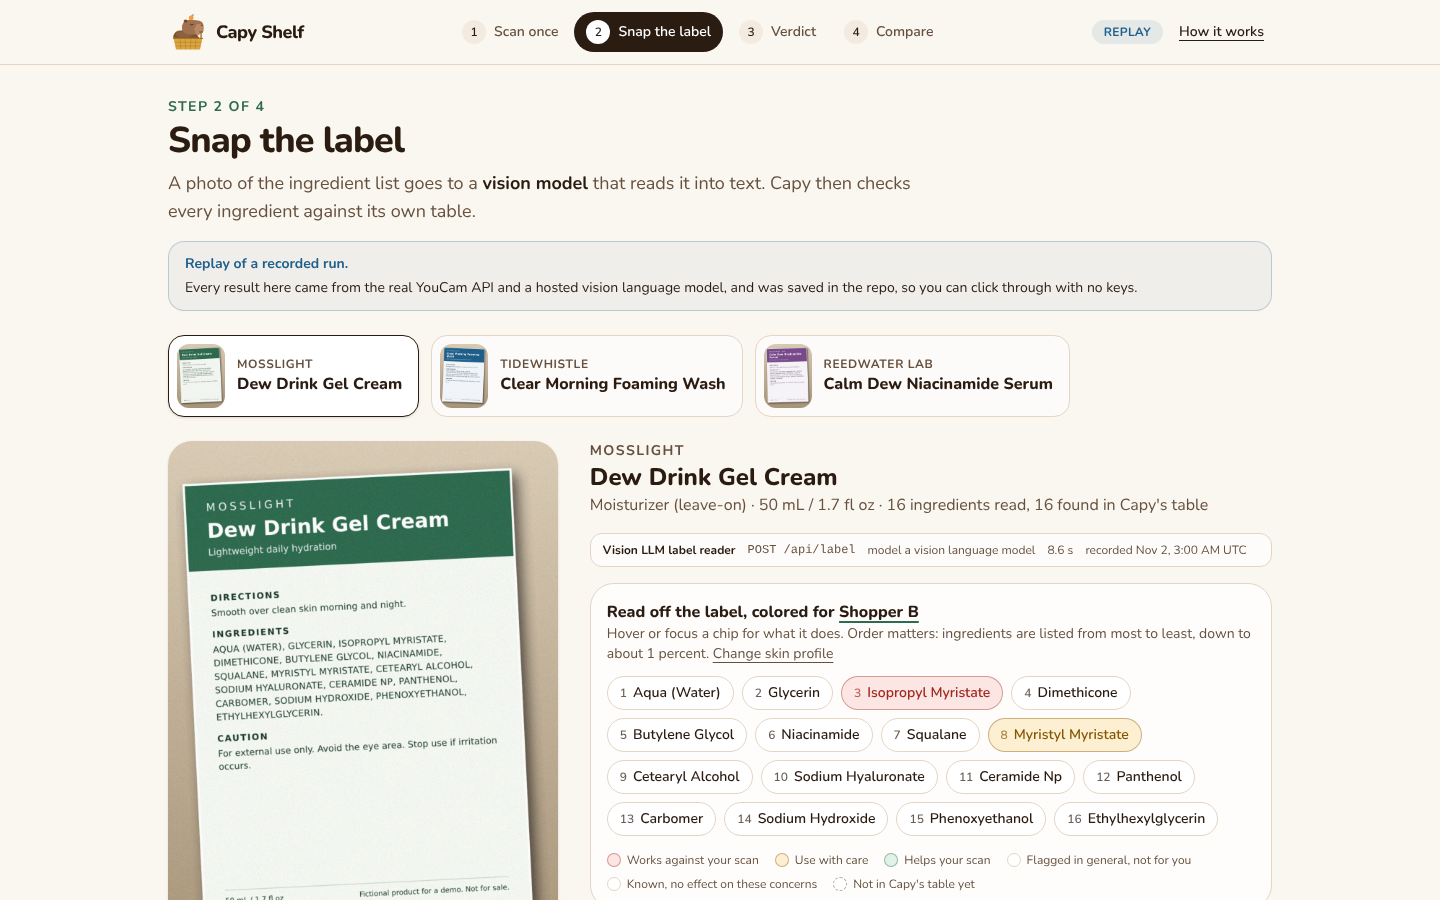
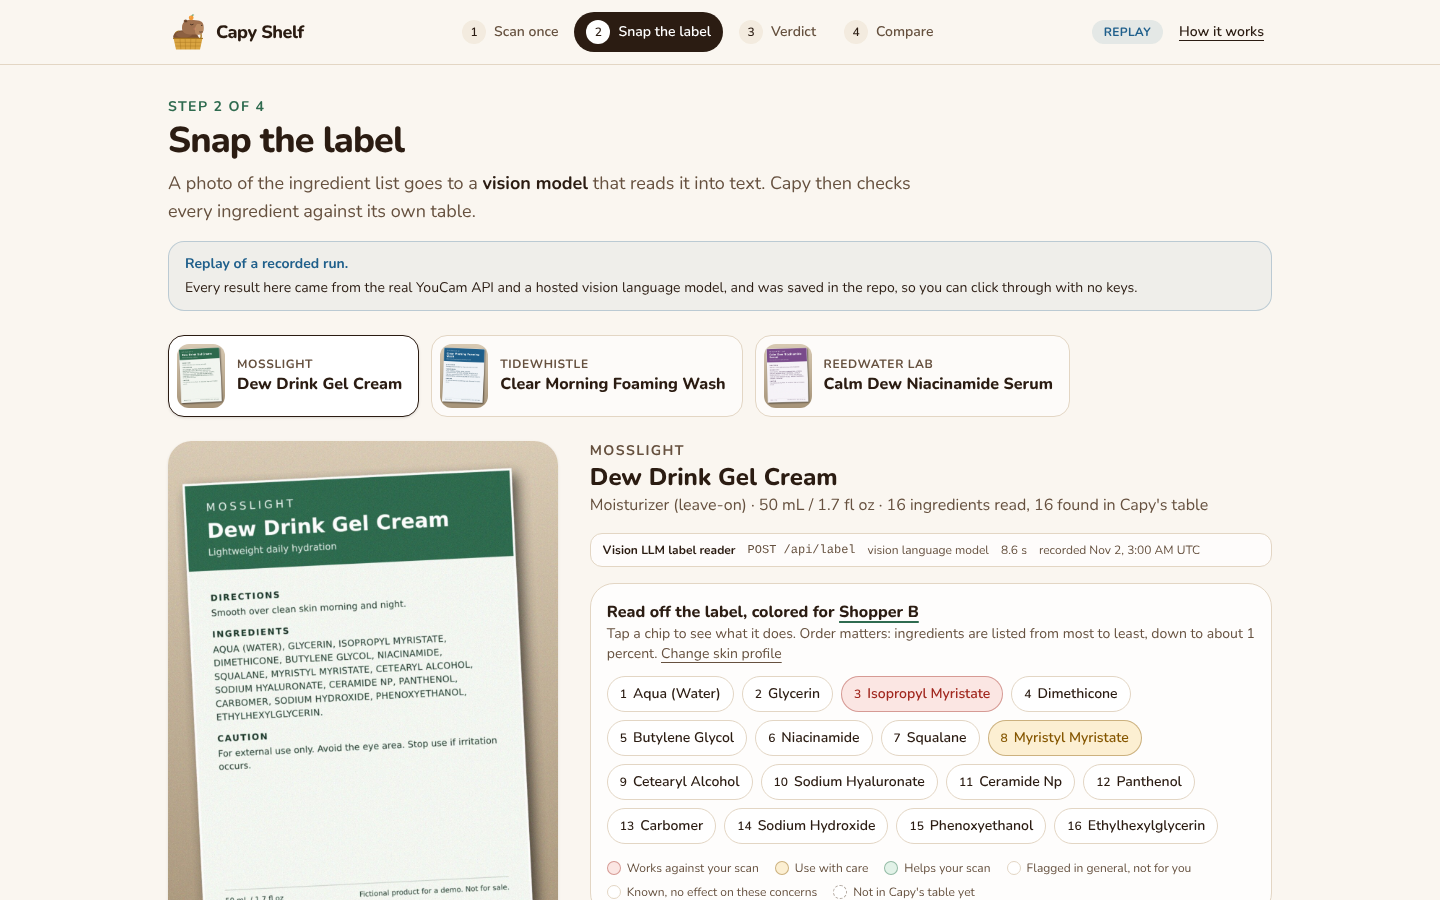
Tappable ingredient chips with a detail panel, contrast fix, refreshed screenshots

Changed region(s): [[0.4062, 0.6844, 0.875, 0.9956], [0.5938, 0.5911, 0.8438, 0.6222]]

diff --git a/src/components/IngredientList.tsx b/src/components/IngredientList.tsx
@@ -1,5 +1,6 @@
 "use client";
 
+import { useState } from "react";
 import { lookupIngredient, TAGS } from "@/data/ingredients";
 import { CONCERN_LABEL } from "@/lib/skin";
 import type { Verdict } from "@/lib/types";
@@ -27,6 +28,9 @@ const NOTE: Record<Status, string> = {
 };
 
 export function IngredientList({ ingredients, verdict }: { ingredients: string[]; verdict: Verdict }) {
+  const [picked, setPicked] = useState<number | null>(null);
+  const pickedIng = picked !== null ? ingredients[picked] : null;
+  const pickedEntry = pickedIng ? lookupIngredient(pickedIng) : null;
   return (
     <div>
       <ol className="flex flex-wrap gap-2" data-testid="ingredient-list" aria-label="Ingredients in label order">
@@ -43,19 +47,43 @@ export function IngredientList({ ingredients, verdict }: { ingredients: string[]
             .join(" · ");
           return (
             <li key={`${ing}-${i}`}>
-              <span
-                className={`inline-flex items-center gap-1.5 rounded-full border px-3 py-1.5 text-sm font-semibold ${STYLE[status]}`}
+              <button
+                type="button"
+                aria-pressed={picked === i}
+                onClick={() => setPicked(picked === i ? null : i)}
+                className={`inline-flex items-center gap-1.5 rounded-full border px-3 py-1.5 text-sm font-semibold min-h-9 ${STYLE[status]} ${
+                  picked === i ? "ring-2 ring-ink ring-offset-1" : ""
+                }`}
                 title={detail}
                 data-testid={`ing-${status}`}
               >
-                <span className="text-xs opacity-70 tabular-nums">{i + 1}</span>
+                <span className="text-xs tabular-nums">{i + 1}</span>
                 {ing}
                 <span className="sr-only">: {detail}</span>
-              </span>
+              </button>
             </li>
           );
         })}
       </ol>
+      <div aria-live="polite" className="mt-3" data-testid="ingredient-detail">
+        {pickedIng && (
+          <div className="rounded-2xl border border-line bg-sand/70 px-4 py-3 text-sm fade-up">
+            <p className="font-extrabold">
+              {pickedIng} <span className="font-normal text-muted">(number {(picked ?? 0) + 1} on the list)</span>
+            </p>
+            {pickedEntry && pickedEntry.tags.length > 0 ? (
+              pickedEntry.tags.map((t) => (
+                <p key={t} className="mt-1">
+                  <strong>{TAGS[t].label}.</strong> {TAGS[t].plain}
+                </p>
+              ))
+            ) : (
+              <p className="mt-1">{pickedEntry?.note ?? "Not in Capy's table yet, so it is not judged."}</p>
+            )}
+            <p className="mt-1 text-muted">For this skin: {NOTE[statusFor(pickedIng, verdict)].toLowerCase()}.</p>
+          </div>
+        )}
+      </div>
       <ul className="mt-4 flex flex-wrap gap-x-4 gap-y-2 text-xs text-muted" aria-label="Legend">
         {(["major", "moderate", "helps", "notForYou", "neutral", "unknown"] as Status[]).map((s) => (
           <li key={s} className="flex items-center gap-1.5">

diff --git a/src/app/label/page.tsx b/src/app/label/page.tsx
@@ -93,7 +93,7 @@ export default function LabelPage() {
               Read off the label, colored for <span className="underline decoration-moss decoration-2 underline-offset-4">{profile.label}</span>
             </h3>
             <p className="text-sm text-muted mb-3">
-              Hover or focus a chip for what it does. Order matters: ingredients are listed from most to least, down to
+              Tap a chip to see what it does. Order matters: ingredients are listed from most to least, down to
               about 1 percent.{" "}
               <Link href="/scan" className="underline underline-offset-4">
                 Change skin profile
